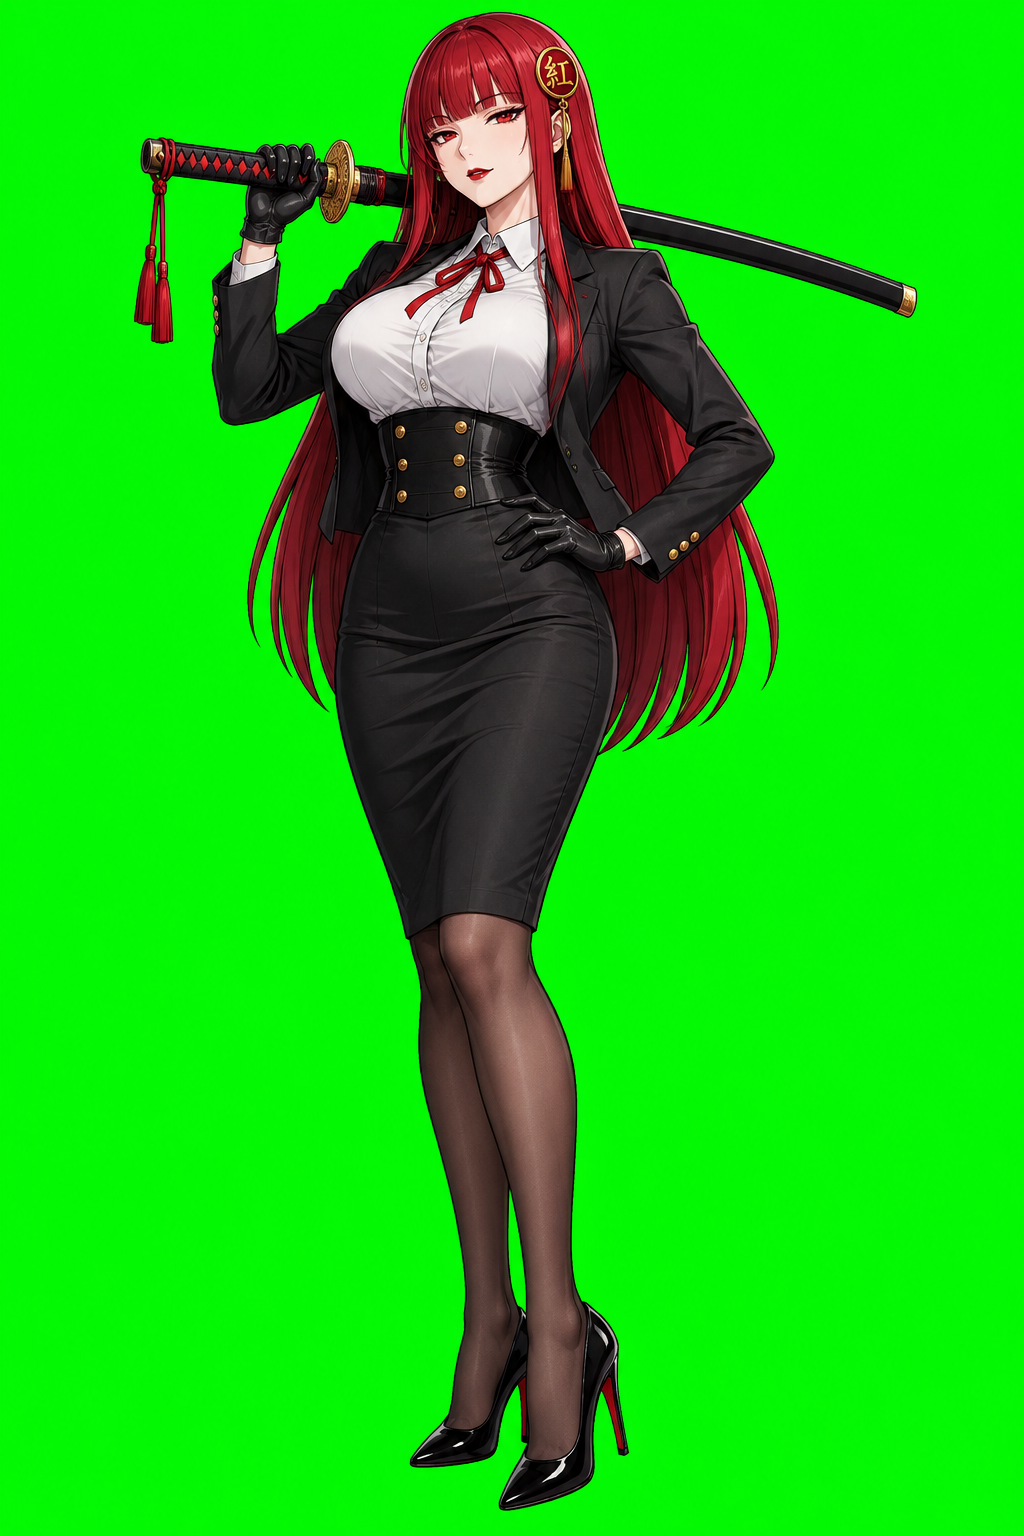
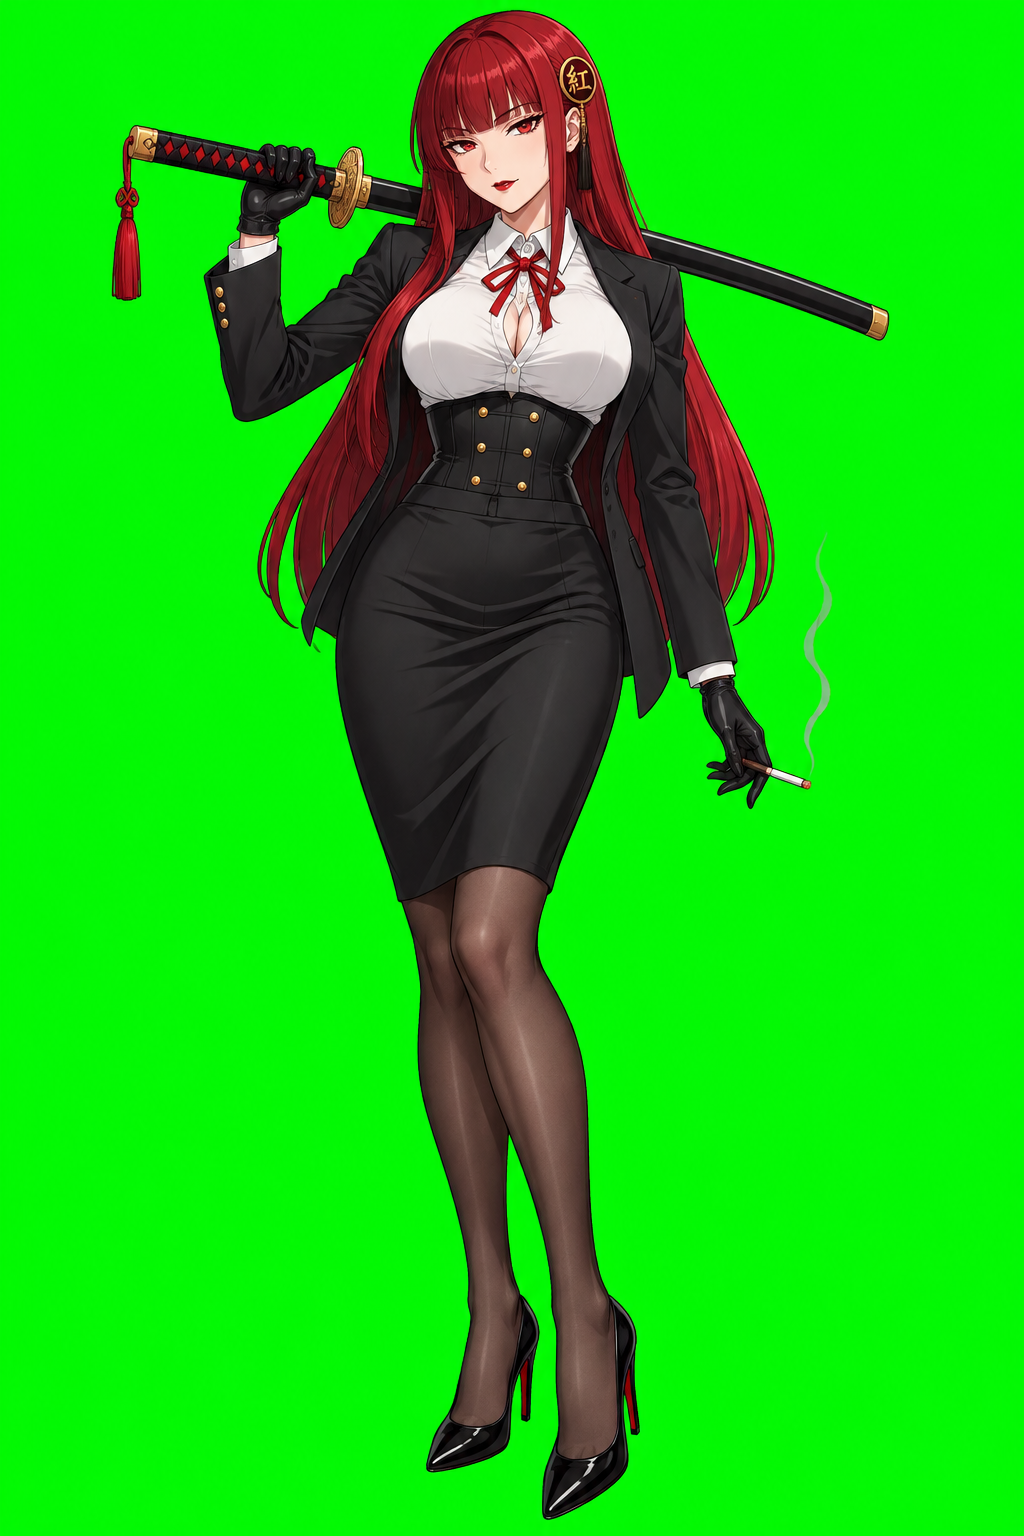
Mascot: add a cigarette

Changed region(s): [[0.0938, 0.0, 0.9062, 0.5312], [0.375, 0.5312, 0.625, 1.0], [0.3438, 0.5, 0.375, 0.5625]]

diff --git a/docs/ru/index.html b/docs/ru/index.html
@@ -298,7 +298,7 @@ footer .wrap { display: flex; justify-content: space-between; gap: 20px; flex-wr
     <div class="stage" id="stage" aria-hidden="false">
       <svg class="kanji" viewBox="190 180 650 670" aria-hidden="true"><path fill="currentColor" d="M477.7 769.5 L477.7 822.4 L355.4 832.0 L309.4 809.3 L275.8 797.7 L207.1 763.3 Q213.3 738.6 216.4 711.1 Q219.5 683.7 221.2 657.9 Q222.9 632.2 223.2 612.3 Q223.6 592.3 223.6 582.7 L223.6 577.9 L216.0 574.5 L209.9 470.1 Q209.9 470.1 224.6 468.4 Q239.4 466.7 258.6 465.3 Q262.0 461.2 265.1 456.7 Q268.2 452.3 271.0 448.1 Q259.3 431.7 243.8 412.4 Q228.4 393.2 208.5 371.9 L251.1 253.1 Q254.5 255.2 259.0 257.6 Q263.4 260.0 267.5 261.4 Q272.3 248.3 276.8 233.9 Q281.3 219.5 286.1 198.2 L381.5 223.6 L450.2 257.9 Q447.5 266.8 445.0 272.3 Q442.6 277.8 439.9 284.0 L457.8 292.9 L457.8 216.0 L733.1 192.0 L801.8 226.3 L801.8 344.4 L724.2 351.3 L724.2 617.1 L748.2 615.0 L816.9 649.3 L816.9 767.5 L523.7 792.2 ZM648.7 630.8 L648.7 310.8 L726.2 303.9 L726.2 199.6 L464.6 222.2 L464.6 326.6 L553.9 319.0 L553.9 639.0 L494.8 643.8 Q490.7 612.9 482.5 569.0 L420.0 589.6 Q424.1 628.7 427.2 660.3 Q430.3 691.9 432.0 710.1 Q433.7 728.3 433.7 728.3 L461.9 717.3 L461.9 750.3 L741.4 726.9 L741.4 622.6 ZM405.6 545.0 Q411.7 543.6 417.6 542.2 Q423.4 540.8 428.2 540.2 Q431.0 553.2 432.3 561.4 Q433.7 569.7 433.7 569.7 L505.1 532.6 Q505.1 532.6 499.3 512.7 Q493.5 492.8 483.5 460.2 Q473.5 427.5 460.5 389.8 L400.1 424.8 Q402.8 431.7 404.9 438.2 Q406.9 444.7 408.3 452.3 Q400.8 453.6 389.1 455.7 Q377.4 457.8 367.8 459.1 Q395.9 421.4 415.5 387.4 Q435.1 353.4 445.7 331.4 Q456.4 309.4 456.4 309.4 L384.3 264.1 Q384.3 264.1 371.6 292.6 Q358.9 321.1 333.5 363.7 Q330.7 359.6 328.0 355.4 Q325.2 351.3 321.8 347.2 Q331.4 328.7 344.8 299.1 Q358.2 269.6 372.6 229.1 L290.9 207.1 Q285.4 229.1 279.2 247.6 Q273.0 266.2 266.8 280.6 L253.1 265.5 L216.0 370.5 Q235.3 389.8 251.1 410.0 Q266.8 430.3 279.2 447.5 Q275.8 453.6 271.3 459.8 Q266.8 466.0 262.0 472.2 Q242.1 473.5 229.4 474.9 Q216.7 476.3 216.7 476.3 L222.2 567.6 Q222.2 567.6 248.7 565.6 Q275.1 563.5 311.5 559.4 L311.5 789.4 L405.6 781.2 ZM284.0 777.1 Q289.5 746.8 292.3 710.5 Q295.0 674.1 295.7 641.8 Q296.4 609.5 296.4 591.7 L296.4 575.2 L230.5 578.6 L230.5 589.6 Q230.5 604.0 229.4 632.9 Q228.4 661.7 225.3 695.3 Q222.2 729.0 215.3 757.8 Z"/></svg>
       <div class="say" id="say" aria-live="polite"><span id="say-t"></span><span class="cur"></span></div>
-      <div class="girl" id="girl"><img src="../mascot/kurenai.png" width="527" height="1000" alt="Kurenai, маскот приложения: рыжая девушка в чёрном костюме с катаной на плече"></div>
+      <div class="girl" id="girl"><img src="../mascot/kurenai.png" width="519" height="1000" alt="Kurenai, маскот приложения: рыжая девушка в чёрном костюме с катаной на плече"></div>
       <div class="chip c1"><b>1</b>Счёт №2048 до пятницы</div>
       <div class="chip c2"><span class="sw"></span>#c8232f</div>
       <div class="chip c3"><b>3</b>Москва, Тверская, 7</div>

diff --git a/docs/index.html b/docs/index.html
@@ -298,7 +298,7 @@ footer .wrap { display: flex; justify-content: space-between; gap: 20px; flex-wr
     <div class="stage" id="stage" aria-hidden="false">
       <svg class="kanji" viewBox="190 180 650 670" aria-hidden="true"><path fill="currentColor" d="M477.7 769.5 L477.7 822.4 L355.4 832.0 L309.4 809.3 L275.8 797.7 L207.1 763.3 Q213.3 738.6 216.4 711.1 Q219.5 683.7 221.2 657.9 Q222.9 632.2 223.2 612.3 Q223.6 592.3 223.6 582.7 L223.6 577.9 L216.0 574.5 L209.9 470.1 Q209.9 470.1 224.6 468.4 Q239.4 466.7 258.6 465.3 Q262.0 461.2 265.1 456.7 Q268.2 452.3 271.0 448.1 Q259.3 431.7 243.8 412.4 Q228.4 393.2 208.5 371.9 L251.1 253.1 Q254.5 255.2 259.0 257.6 Q263.4 260.0 267.5 261.4 Q272.3 248.3 276.8 233.9 Q281.3 219.5 286.1 198.2 L381.5 223.6 L450.2 257.9 Q447.5 266.8 445.0 272.3 Q442.6 277.8 439.9 284.0 L457.8 292.9 L457.8 216.0 L733.1 192.0 L801.8 226.3 L801.8 344.4 L724.2 351.3 L724.2 617.1 L748.2 615.0 L816.9 649.3 L816.9 767.5 L523.7 792.2 ZM648.7 630.8 L648.7 310.8 L726.2 303.9 L726.2 199.6 L464.6 222.2 L464.6 326.6 L553.9 319.0 L553.9 639.0 L494.8 643.8 Q490.7 612.9 482.5 569.0 L420.0 589.6 Q424.1 628.7 427.2 660.3 Q430.3 691.9 432.0 710.1 Q433.7 728.3 433.7 728.3 L461.9 717.3 L461.9 750.3 L741.4 726.9 L741.4 622.6 ZM405.6 545.0 Q411.7 543.6 417.6 542.2 Q423.4 540.8 428.2 540.2 Q431.0 553.2 432.3 561.4 Q433.7 569.7 433.7 569.7 L505.1 532.6 Q505.1 532.6 499.3 512.7 Q493.5 492.8 483.5 460.2 Q473.5 427.5 460.5 389.8 L400.1 424.8 Q402.8 431.7 404.9 438.2 Q406.9 444.7 408.3 452.3 Q400.8 453.6 389.1 455.7 Q377.4 457.8 367.8 459.1 Q395.9 421.4 415.5 387.4 Q435.1 353.4 445.7 331.4 Q456.4 309.4 456.4 309.4 L384.3 264.1 Q384.3 264.1 371.6 292.6 Q358.9 321.1 333.5 363.7 Q330.7 359.6 328.0 355.4 Q325.2 351.3 321.8 347.2 Q331.4 328.7 344.8 299.1 Q358.2 269.6 372.6 229.1 L290.9 207.1 Q285.4 229.1 279.2 247.6 Q273.0 266.2 266.8 280.6 L253.1 265.5 L216.0 370.5 Q235.3 389.8 251.1 410.0 Q266.8 430.3 279.2 447.5 Q275.8 453.6 271.3 459.8 Q266.8 466.0 262.0 472.2 Q242.1 473.5 229.4 474.9 Q216.7 476.3 216.7 476.3 L222.2 567.6 Q222.2 567.6 248.7 565.6 Q275.1 563.5 311.5 559.4 L311.5 789.4 L405.6 781.2 ZM284.0 777.1 Q289.5 746.8 292.3 710.5 Q295.0 674.1 295.7 641.8 Q296.4 609.5 296.4 591.7 L296.4 575.2 L230.5 578.6 L230.5 589.6 Q230.5 604.0 229.4 632.9 Q228.4 661.7 225.3 695.3 Q222.2 729.0 215.3 757.8 Z"/></svg>
       <div class="say" id="say" aria-live="polite"><span id="say-t"></span><span class="cur"></span></div>
-      <div class="girl" id="girl"><img src="mascot/kurenai.png" width="527" height="1000" alt="Kurenai, the app's mascot: a red-haired woman in a black suit with a katana on her shoulder"></div>
+      <div class="girl" id="girl"><img src="mascot/kurenai.png" width="519" height="1000" alt="Kurenai, the app's mascot: a red-haired woman in a black suit with a katana on her shoulder"></div>
       <div class="chip c1"><b>1</b>Invoice #2048 is due on Friday</div>
       <div class="chip c2"><span class="sw"></span>#c8232f</div>
       <div class="chip c3"><b>3</b>221B Baker Street, London</div>

diff --git a/docs/zh/index.html b/docs/zh/index.html
@@ -298,7 +298,7 @@ footer .wrap { display: flex; justify-content: space-between; gap: 20px; flex-wr
     <div class="stage" id="stage" aria-hidden="false">
       <svg class="kanji" viewBox="190 180 650 670" aria-hidden="true"><path fill="currentColor" d="M477.7 769.5 L477.7 822.4 L355.4 832.0 L309.4 809.3 L275.8 797.7 L207.1 763.3 Q213.3 738.6 216.4 711.1 Q219.5 683.7 221.2 657.9 Q222.9 632.2 223.2 612.3 Q223.6 592.3 223.6 582.7 L223.6 577.9 L216.0 574.5 L209.9 470.1 Q209.9 470.1 224.6 468.4 Q239.4 466.7 258.6 465.3 Q262.0 461.2 265.1 456.7 Q268.2 452.3 271.0 448.1 Q259.3 431.7 243.8 412.4 Q228.4 393.2 208.5 371.9 L251.1 253.1 Q254.5 255.2 259.0 257.6 Q263.4 260.0 267.5 261.4 Q272.3 248.3 276.8 233.9 Q281.3 219.5 286.1 198.2 L381.5 223.6 L450.2 257.9 Q447.5 266.8 445.0 272.3 Q442.6 277.8 439.9 284.0 L457.8 292.9 L457.8 216.0 L733.1 192.0 L801.8 226.3 L801.8 344.4 L724.2 351.3 L724.2 617.1 L748.2 615.0 L816.9 649.3 L816.9 767.5 L523.7 792.2 ZM648.7 630.8 L648.7 310.8 L726.2 303.9 L726.2 199.6 L464.6 222.2 L464.6 326.6 L553.9 319.0 L553.9 639.0 L494.8 643.8 Q490.7 612.9 482.5 569.0 L420.0 589.6 Q424.1 628.7 427.2 660.3 Q430.3 691.9 432.0 710.1 Q433.7 728.3 433.7 728.3 L461.9 717.3 L461.9 750.3 L741.4 726.9 L741.4 622.6 ZM405.6 545.0 Q411.7 543.6 417.6 542.2 Q423.4 540.8 428.2 540.2 Q431.0 553.2 432.3 561.4 Q433.7 569.7 433.7 569.7 L505.1 532.6 Q505.1 532.6 499.3 512.7 Q493.5 492.8 483.5 460.2 Q473.5 427.5 460.5 389.8 L400.1 424.8 Q402.8 431.7 404.9 438.2 Q406.9 444.7 408.3 452.3 Q400.8 453.6 389.1 455.7 Q377.4 457.8 367.8 459.1 Q395.9 421.4 415.5 387.4 Q435.1 353.4 445.7 331.4 Q456.4 309.4 456.4 309.4 L384.3 264.1 Q384.3 264.1 371.6 292.6 Q358.9 321.1 333.5 363.7 Q330.7 359.6 328.0 355.4 Q325.2 351.3 321.8 347.2 Q331.4 328.7 344.8 299.1 Q358.2 269.6 372.6 229.1 L290.9 207.1 Q285.4 229.1 279.2 247.6 Q273.0 266.2 266.8 280.6 L253.1 265.5 L216.0 370.5 Q235.3 389.8 251.1 410.0 Q266.8 430.3 279.2 447.5 Q275.8 453.6 271.3 459.8 Q266.8 466.0 262.0 472.2 Q242.1 473.5 229.4 474.9 Q216.7 476.3 216.7 476.3 L222.2 567.6 Q222.2 567.6 248.7 565.6 Q275.1 563.5 311.5 559.4 L311.5 789.4 L405.6 781.2 ZM284.0 777.1 Q289.5 746.8 292.3 710.5 Q295.0 674.1 295.7 641.8 Q296.4 609.5 296.4 591.7 L296.4 575.2 L230.5 578.6 L230.5 589.6 Q230.5 604.0 229.4 632.9 Q228.4 661.7 225.3 695.3 Q222.2 729.0 215.3 757.8 Z"/></svg>
       <div class="say" id="say" aria-live="polite"><span id="say-t"></span><span class="cur"></span></div>
-      <div class="girl" id="girl"><img src="../mascot/kurenai.png" width="527" height="1000" alt="Kurenai 吉祥物：红发女子，黑色西装，肩扛武士刀"></div>
+      <div class="girl" id="girl"><img src="../mascot/kurenai.png" width="519" height="1000" alt="Kurenai 吉祥物：红发女子，黑色西装，肩扛武士刀"></div>
       <div class="chip c1"><b>1</b>2048 号发票周五前付款</div>
       <div class="chip c2"><span class="sw"></span>#c8232f</div>
       <div class="chip c3"><b>3</b>上海市南京东路 100 号</div>

diff --git a/site/build.py b/site/build.py
@@ -74,7 +74,7 @@ def page(t):
     <div class="stage" id="stage" aria-hidden="false">
       <svg class="kanji" viewBox="190 180 650 670" aria-hidden="true"><path fill="currentColor" d="{KANJI}"/></svg>
       <div class="say" id="say" aria-live="polite"><span id="say-t"></span><span class="cur"></span></div>
-      <div class="girl" id="girl"><img src="{p}mascot/kurenai.png" width="527" height="1000" alt="{t['alt_mascot']}"></div>
+      <div class="girl" id="girl"><img src="{p}mascot/kurenai.png" width="519" height="1000" alt="{t['alt_mascot']}"></div>
       <div class="chip c1"><b>1</b>{html.escape(c[0])}</div>
       <div class="chip c2"><span class="sw"></span>{html.escape(c[1])}</div>
       <div class="chip c3"><b>3</b>{html.escape(c[2])}</div>
